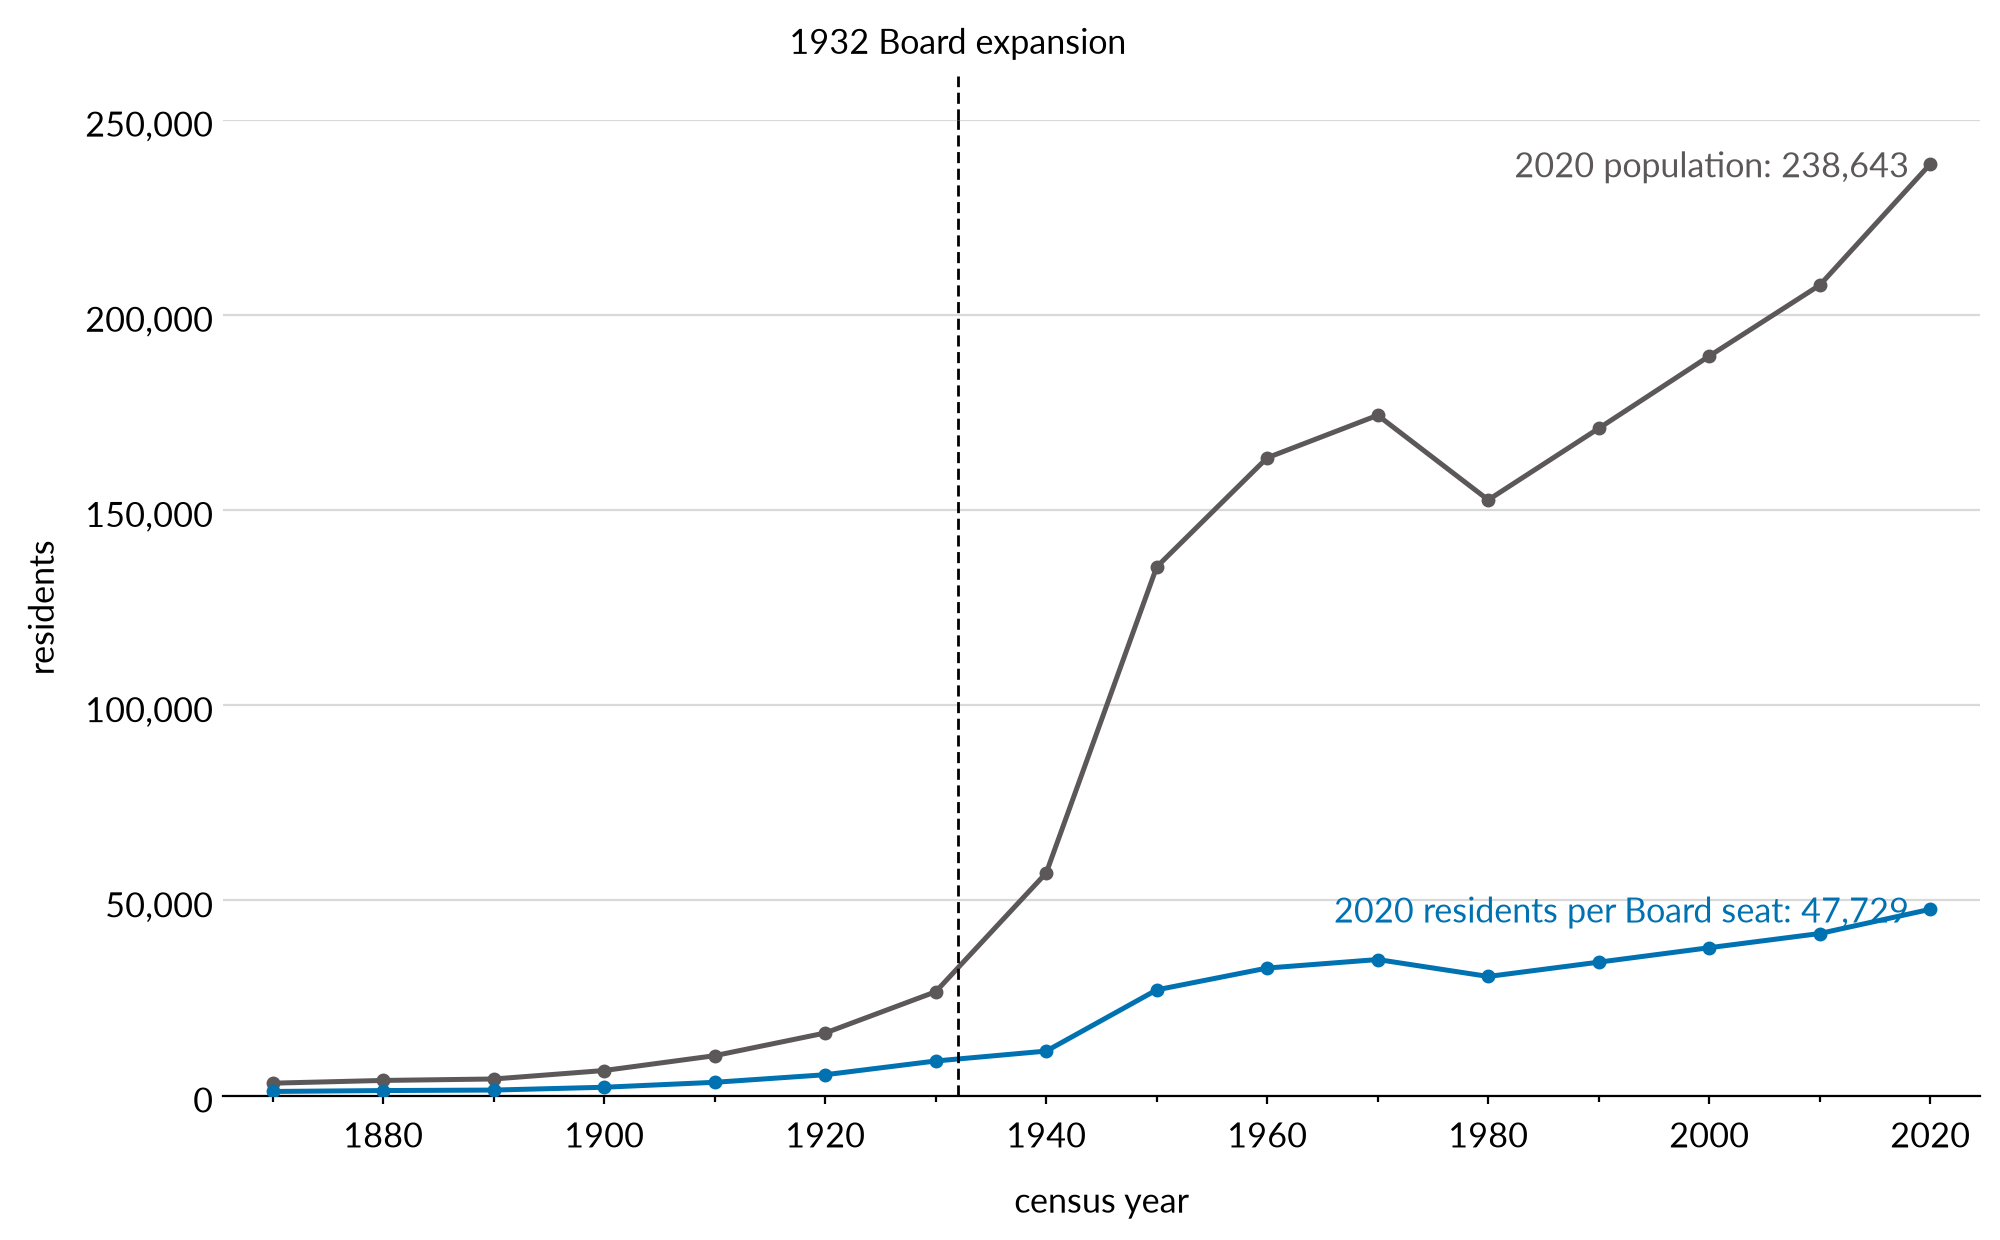
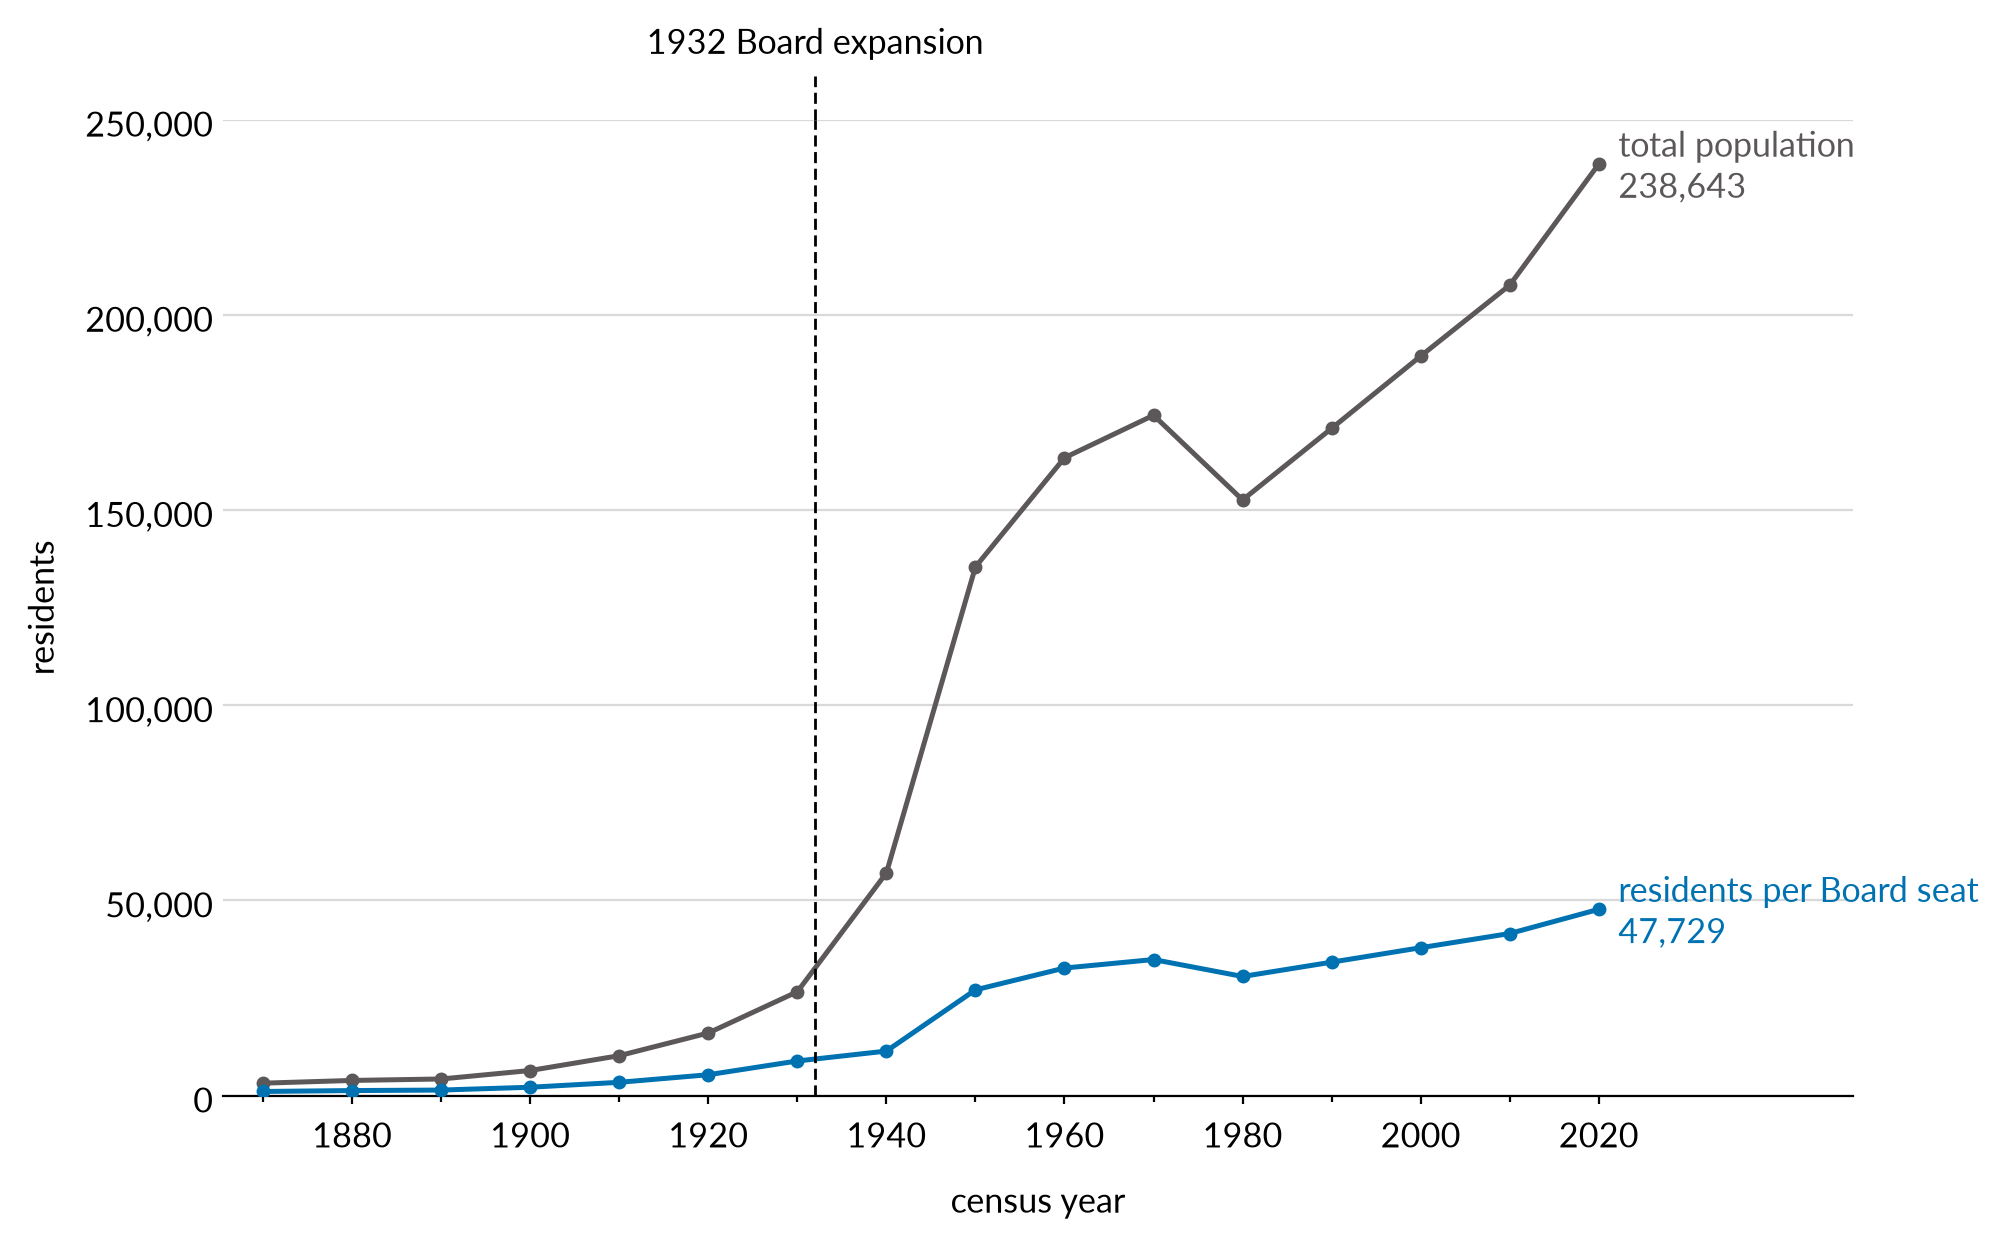
residents_per_seat: end labels sit beside the points they name
Three placements tried. Outside the plot on one line, which is Urban's,
needed 30 per cent headroom past 2020 and visibly stretched the axis - the
series distorted to make room for its own caption. In the empty band
between the lines, which fitted but put each label nowhere near the line it
named, so it read as a caption to be matched up rather than as a label.

Wrapping the name above the value halves the room a label needs, which is
what makes the third work: each sits immediately right of its own 2020
point, level with it, and the axis moves 16 per cent rather than 30.

The rule is in the figures skill, since it is about direct labelling and
not about this figure.

diff --git a/code/analysis/residents_per_seat.py b/code/analysis/residents_per_seat.py
@@ -31,21 +31,17 @@ for profile in style.PROFILES:
     charts.lines(ax, d["year"], series)
     charts.counts(ax, 250000, 50000)
     # Decades collide at this width, so labels every twenty years with an
-    # unlabelled tick at each census between. No headroom: the labels sit in
-    # the space between the two lines rather than past the end of the data.
-    charts.years(ax, 1870, 2020, step=20)
+    # unlabelled tick at each census between. The headroom is for the two end
+    # labels, which sit inside the axes beside the points they name.
+    charts.years(ax, 1870, 2020, step=20, headroom=0.16)
 
-    # Each label sits just left of the 2020 point it describes, at that
-    # point's own height. Anywhere else and it is a caption the reader has to
-    # match to a line, which is what a legend already is.
     last = d.iloc[-1]
-    charts.end_label(ax, 2020, last["total"],
-                     f"2020 population: {int(last['total']):,}",
-                     style.SERIES_COLORS["population"])
-    charts.end_label(ax, 2020, last["residents_per_seat"],
-                     f"2020 residents per Board seat: "
-                     f"{int(round(last['residents_per_seat'])):,}",
-                     style.SERIES_COLORS["per_seat"])
+    for value, name, colour in (
+        (last["total"], "total population", style.SERIES_COLORS["population"]),
+        (last["residents_per_seat"], "residents per Board seat",
+         style.SERIES_COLORS["per_seat"]),
+    ):
+        charts.end_label(ax, 2020, value, f"{name}\n{int(round(value)):,}", colour)
 
     charts.rule(ax)
     paths.save(fig, "residents_per_seat", profile)

diff --git a/style/charts.py b/style/charts.py
@@ -72,13 +72,18 @@ def label_line(ax, x, y, text, color, ha="left"):
 
 
 def end_label(ax, x, y, text, color, gap=0.012):
-    """Name a line just to the left of the point it describes.
+    """Name a line immediately beside the point it describes, at that height.
 
-    A direct label has to sit near its own mark. Placed anywhere else it is a
-    caption the reader has to match up, which is what a legend already is.
+    A direct label has to sit near its own mark; placed anywhere else it is a
+    caption the reader has to match to a line, which is what a legend already
+    is. Level with the final point and just to its right is the least ambiguous
+    position available, and wrapping the name above the value keeps it short
+    enough that the room it needs does not visibly stretch the axis.
+
+    Call after years(), which sets the limit this reads.
     """
     lo, hi = ax.get_xlim()
-    label_line(ax, x - (hi - lo) * gap, y, text, color, ha="right")
+    label_line(ax, x + (hi - lo) * gap, y, text, color, ha="left")
 
 
 def stacked_bars(ax, x, series, width=7):

diff --git a/docs/figures.md b/docs/figures.md
@@ -14,11 +14,13 @@ Two series on one linear axis, 1870–2020: total population, and residents per
 Board seat. Both are counts of people, so the vertical distance between them
 means the same thing everywhere on the page.
 
-Each line is named where it runs, on one line, with its final value — not at
-the far right outside the plot, which is Urban's placement. A label long enough
-to be readable needs enough headroom past 2020 to visibly stretch the axis,
-which distorts the series to make room for its own caption. The band between
-the two lines is empty from 1950 on and costs nothing.
+Each line is named beside its own 2020 point, at that point's height, with the
+name wrapped above the value. Three placements were tried. Outside the plot on
+one line — Urban's placement — needed enough headroom past 2020 to visibly
+stretch the axis. In the empty band between the lines, the label sat nowhere
+near the line it named, which makes it a caption to be matched up, which is
+what a legend already is. Wrapping to two lines halves the room a label needs,
+so it sits immediately beside its point and the axis barely moves.
 
 "Seat", not "member". The denominator is seats that exist — three through 1930
 and five after — not members actually serving, and the two differ in 1873 and

diff --git a/.claude/skills/figures/SKILL.md b/.claude/skills/figures/SKILL.md
@@ -101,6 +101,11 @@ too, in the LaTeX caption.
   the prose. Test on the data, not on the category name.
 - Direct end-labels on a line chart are preferred to a legend where the lines
   allow it. This is Urban's rule and it applies.
+- **A direct label sits beside the point it names, at that point's height.**
+  Anywhere else it is a caption the reader has to match to a line, which is
+  what a legend already is. Wrap the name above the value: two short lines need
+  half the room of one long one, so it fits without the axis visibly
+  stretching to hold it.
 
 ## Colour
 
